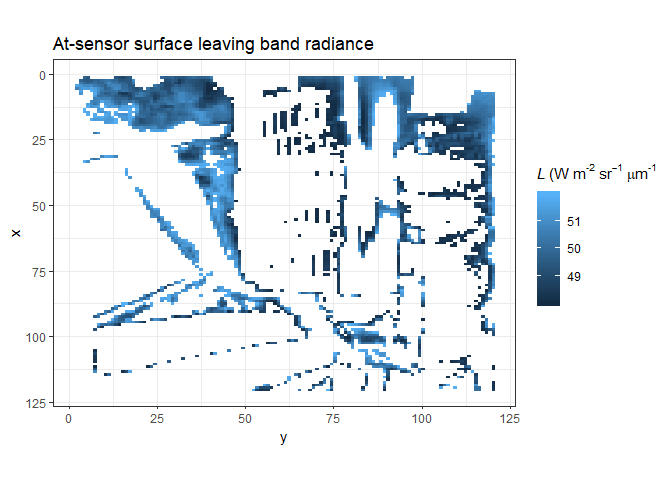
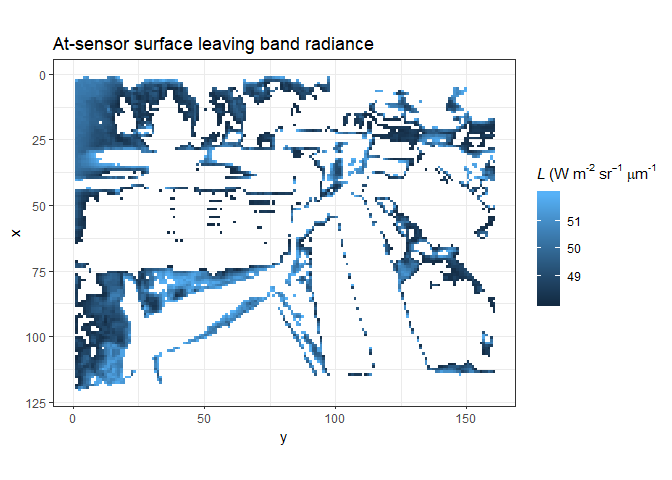
RW

diff --git a/tutorials/Real-world-images/README.md b/tutorials/Real-world-images/README.md
@@ -4,7 +4,7 @@ This atmospheric correction procedure is shown for ground-based thermal camera o
 
 # Sample image
 
-The observations shown here are from an Optris PI-160 thermal camera. It is sensitive to radiation between 7 - 14 microns. Observations were taken on top of a high rise building in central London and have an oblique view of the surfaces below. The [sample image](README_files/data/C17_sampleImg.tif) used for this - and later - tutorials was taken around midday on 27th August 2017.
+The observations shown here are from an Optris PI-160 thermal camera. It is sensitive to radiation between 7 - 14 microns. Observations were taken on top of a high rise building in central London and have an oblique view of the surfaces below. The [sample image](README_files/data/C17_sampleImg.tif) used for this (and a later) tutorial was taken around midday on 27th August 2017.
 
 
 ```r
@@ -14,11 +14,12 @@ library(dplyr)
 library(tidyr)
 library(raster)
 rawData <- raster("README_files/data/C17_sampleImg.tif")
-dataDF <- melt(as.matrix(rawData), varnames = c("y", "x")) %>%
-  dplyr::mutate(y = rev(y))
+dataDF <- melt(as.matrix(rawData), varnames = c("x", "y"))
 
 ggplot(dataDF) +
-  geom_raster(aes(x = x, y = y, fill = value))
+  geom_raster(aes(x = x, y = y, fill = value)) +
+    coord_flip() +
+  scale_x_reverse()
 ```
 
 ![](README_files/figure-gfm/unnamed-chunk-1-2-1.png)<!-- -->

diff --git a/tutorials/Band-calculation/README.md b/tutorials/Band-calculation/README.md
@@ -33,7 +33,7 @@ source("README_files/code/functions.R")
 
 # Real world observations 
 
-Define the real world observations. This should be a data frame which has information that can relate to the model world observations. Namely: pixels (x, y), brightness temperature (value), the image type (imgType) and DART image number that models its perspective (imageNo). This way, each model world camera is matched to the correct real world camera.
+Define the real world observations. This should be a data frame which has information that can relate to the model world observations. Namely: pixels (x, y), brightness temperature (value), the image type (imgType) and DART image number that models its perspective (imageNo). This way, each model world camera is matched to the correct real world camera. Therefore, read the data as was done in the [real world](../Real-world-images) section and add the appropriate meta data.
 
 
 ```r
@@ -43,8 +43,8 @@ library(dplyr)
 library(tidyr)
 library(raster)
 rawData <- raster("../Real-world-images/README_files/data/C17_sampleImg.tif")
-DFobs <- melt(as.matrix(rawData), varnames = c("y", "x")) %>%
-  dplyr::mutate(y = rev(y), imgType = "camera", imageNo = 251L)
+DFobs <- melt(as.matrix(rawData), varnames = c("x", "y")) %>%
+  dplyr::mutate(imgType = "camera", imageNo = 251L)
 ```
 
 # Spectral response function
